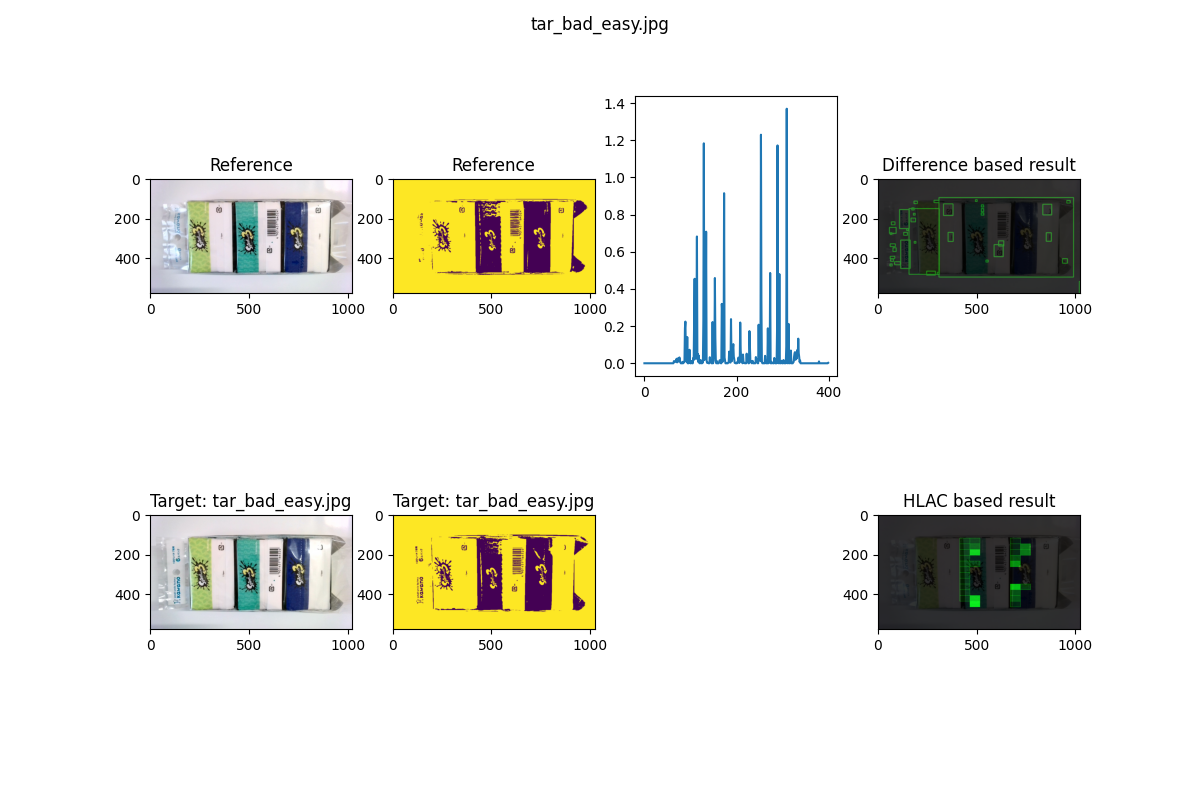
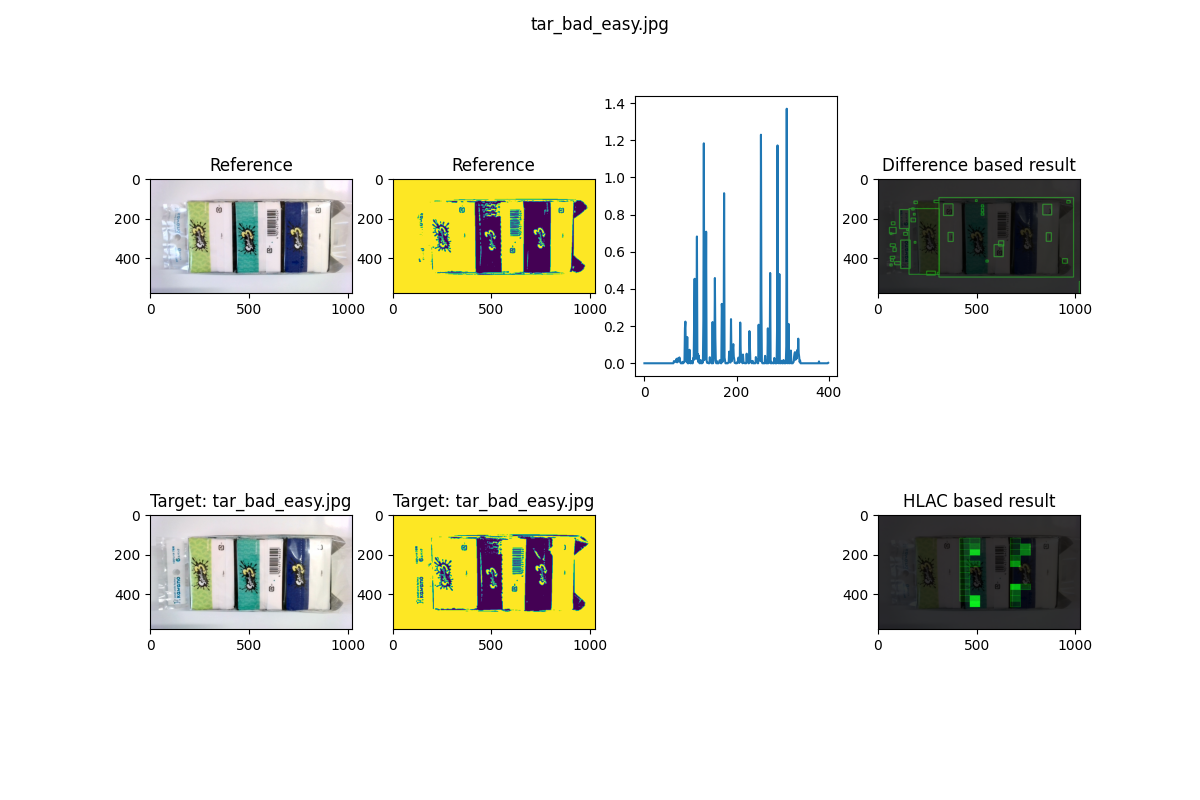
add hsv-try

Changed region(s): [[0.3392, 0.6562, 0.4933, 0.7812], [0.3392, 0.25, 0.4933, 0.3438]]

diff --git a/tissue-absdiff-hsv.py b/tissue-absdiff-hsv.py
@@ -1,0 +1,128 @@
+import cv2
+import numpy as np
+
+
+# --------------------------------------------------- #
+# 画像合成                                             #
+# --------------------------------------------------- #
+
+def FitImageSize_small(img1, img2):
+    # height
+    if img1.shape[0] > img2.shape[0]:
+        height = img2.shape[0]
+        width = img1.shape[1]
+        img1 = cv2.resize(img1, (width, height))
+    else:
+        height = img1.shape[0]
+        width = img2.shape[1]
+        img2 = cv2.resize(img2, (width, height))
+
+    # width
+    if img1.shape[1] > img2.shape[1]:
+        height = img1.shape[0]
+        width = img2.shape[1]
+        img1 = cv2.resize(img1, (width, height))
+    else:
+        height = img2.shape[0]
+        width = img1.shape[1]
+        img2 = cv2.resize(img2, (width, height))
+    return img1, img2
+
+
+path_img1 ="./my_dir/matigai/ref.jpg"    #250301
+path_img2 ="./my_dir/matigai/tar_good_easy.jpg"    #250301
+
+img1 = cv2.imread(path_img1)
+img2 = cv2.imread(path_img2)
+
+
+if img1 is None:
+    print(os.path.basename(path_img1)+'ファイルを読み込めません')
+    import sys
+    sys.exit()
+
+if img2 is None:
+    print(os.path.basename(path_img2)+'ファイルを読み込めません')
+    import sys
+    sys.exit()
+
+
+cv2.imshow("img1", img1)
+cv2.imshow("img2", img2)
+
+#250301
+# 余白を取り除いたときに2つの画像が最も一致するような適切な余白（padding）の幅を見つける
+# img_src = img
+# padding_result = []
+# for padding in range(0, 50):
+#     # 画像の余白を削除
+#     # (余白無しの可能性を考慮)
+#     if padding:
+#         img = img_src[:, padding:-padding]
+
+#     # 画像を左右で分割する
+#     height, width, channels = img.shape[:3]
+#     img1 = img[:, :width // 2]
+#     img2 = img[:, width // 2:]
+
+#     # 画像サイズを合わせる(小さい方に)
+#     img1, img2 = FitImageSize_small(img1, img2)
+
+#     # 2つの画像の差分を算出
+#     img_diff = cv2.absdiff(img2, img1)
+#     img_diff_sum = np.sum(img_diff)
+
+#     padding_result.append((img_diff_sum, padding))
+
+# # 差分が最も少ないものを選ぶ
+# _, padding = min(padding_result, key=lambda x: x[0])
+
+# # 画像の余白を削除
+# if padding:
+#     img = img_src[:, padding:-padding]
+
+# # 画像を左右で分割する
+# height, width, channels = img.shape[:3]
+# img1 = img[:, :width // 2]
+# img2 = img[:, width // 2:]
+# cv2.imshow("img2", img2)
+
+# もともとの対象が印刷物なので、HSVに変換してみる。
+img1_hsv = cv2.cvtColor(img1, cv2.COLOR_RGB2HSV)
+img2_hsv = cv2.cvtColor(img2, cv2.COLOR_RGB2HSV)
+
+# 2つの画像の差分を算出
+img_diff = cv2.absdiff(img2_hsv, img1_hsv)
+diff_h = img_diff[:, :, 0]
+diff_s = img_diff[:, :, 1] * 3
+diff_v = img_diff[:, :, 2]
+
+# 一定未満の彩度(V)の部分は色合い(H)の差分を考慮しないようにする
+H_THRESHOLD = 70    #250301 default:70
+_, diff_h_mask = cv2.threshold(diff_v, H_THRESHOLD, 255, cv2.THRESH_BINARY)
+diff_h = np.minimum(diff_h, diff_h_mask)
+
+# 輝度、彩度の差分を規格化する
+diff_s = cv2.normalize(diff_s, _, 255, 0, cv2.NORM_MINMAX)
+diff_v = cv2.normalize(diff_v, _, 255, 0, cv2.NORM_MINMAX)
+
+# HSVの差分の一番大きく変わったところを取得する
+diff_glay = np.maximum(diff_h, diff_s, diff_v)
+
+# 変わっている場所の候補を二値化とオープニングで取得
+DIFF_THRESHOLD = 60 #250301 default:60
+_, diff_bin = cv2.threshold(diff_glay, DIFF_THRESHOLD, 255, cv2.THRESH_BINARY)
+diff_bin = cv2.morphologyEx(diff_bin, cv2.MORPH_OPEN, cv2.getStructuringElement(cv2.MORPH_RECT, (3, 3)))
+
+# 画像サイズを合わせる(小さい方に)
+img2, diff_bin = FitImageSize_small(img2, diff_bin)
+cv2.imshow("img_diff", diff_bin)
+
+# 画像合成
+diff_bin_rgb = cv2.cvtColor(diff_bin, cv2.COLOR_GRAY2RGB)
+add = np.maximum(np.minimum(img2, diff_bin_rgb), (img2 // 3))
+cv2.imshow("add", add)
+
+cv2.waitKey(0)
+cv2.destroyAllWindows()
+

diff --git a/history/pad-absdiff-hsv.py b/history/pad-absdiff-hsv.py
@@ -1,0 +1,117 @@
+import cv2
+import numpy as np
+
+
+# --------------------------------------------------- #
+# 画像合成                                             #
+# --------------------------------------------------- #
+
+def FitImageSize_small(img1, img2):
+    # height
+    if img1.shape[0] > img2.shape[0]:
+        height = img2.shape[0]
+        width = img1.shape[1]
+        img1 = cv2.resize(img1, (width, height))
+    else:
+        height = img1.shape[0]
+        width = img2.shape[1]
+        img2 = cv2.resize(img2, (width, height))
+
+    # width
+    if img1.shape[1] > img2.shape[1]:
+        height = img1.shape[0]
+        width = img2.shape[1]
+        img1 = cv2.resize(img1, (width, height))
+    else:
+        height = img2.shape[0]
+        width = img1.shape[1]
+        img2 = cv2.resize(img2, (width, height))
+    return img1, img2
+
+
+path_img ="./my_dir/matigai/ref.jpg"    #250301
+img = cv2.imread(path_img)
+
+if img is None:
+    print('ファイルを読み込めません')
+    import sys
+
+    sys.exit()
+
+cv2.imshow("img", img)
+
+# 余白を取り除いたときに2つの画像が最も一致するような適切な余白（padding）の幅を見つける
+img_src = img
+padding_result = []
+for padding in range(0, 50):
+    # 画像の余白を削除
+    # (余白無しの可能性を考慮)
+    if padding:
+        img = img_src[:, padding:-padding]
+
+    # 画像を左右で分割する
+    height, width, channels = img.shape[:3]
+    img1 = img[:, :width // 2]
+    img2 = img[:, width // 2:]
+
+    # 画像サイズを合わせる(小さい方に)
+    img1, img2 = FitImageSize_small(img1, img2)
+
+    # 2つの画像の差分を算出
+    img_diff = cv2.absdiff(img2, img1)
+    img_diff_sum = np.sum(img_diff)
+
+    padding_result.append((img_diff_sum, padding))
+
+# 差分が最も少ないものを選ぶ
+_, padding = min(padding_result, key=lambda x: x[0])
+
+# 画像の余白を削除
+if padding:
+    img = img_src[:, padding:-padding]
+
+# 画像を左右で分割する
+height, width, channels = img.shape[:3]
+img1 = img[:, :width // 2]
+img2 = img[:, width // 2:]
+cv2.imshow("img2", img2)
+
+# もともとの対象が印刷物なので、HSVに変換してみる。
+img1_hsv = cv2.cvtColor(img1, cv2.COLOR_RGB2HSV)
+img2_hsv = cv2.cvtColor(img2, cv2.COLOR_RGB2HSV)
+
+# 2つの画像の差分を算出
+img_diff = cv2.absdiff(img2_hsv, img1_hsv)
+diff_h = img_diff[:, :, 0]
+diff_s = img_diff[:, :, 1] * 3
+diff_v = img_diff[:, :, 2]
+
+# 一定未満の彩度(V)の部分は色合い(H)の差分を考慮しないようにする
+H_THRESHOLD = 70
+_, diff_h_mask = cv2.threshold(diff_v, H_THRESHOLD, 255, cv2.THRESH_BINARY)
+diff_h = np.minimum(diff_h, diff_h_mask)
+
+# 輝度、彩度の差分を規格化する
+diff_s = cv2.normalize(diff_s, _, 255, 0, cv2.NORM_MINMAX)
+diff_v = cv2.normalize(diff_v, _, 255, 0, cv2.NORM_MINMAX)
+
+# HSVの差分の一番大きく変わったところを取得する
+diff_glay = np.maximum(diff_h, diff_s, diff_v)
+
+# 変わっている場所の候補を二値化とオープニングで取得
+DIFF_THRESHOLD = 60
+_, diff_bin = cv2.threshold(diff_glay, DIFF_THRESHOLD, 255, cv2.THRESH_BINARY)
+diff_bin = cv2.morphologyEx(diff_bin, cv2.MORPH_OPEN, cv2.getStructuringElement(cv2.MORPH_RECT, (3, 3)))
+
+# 画像サイズを合わせる(小さい方に)
+img2, diff_bin = FitImageSize_small(img2, diff_bin)
+cv2.imshow("img_diff", diff_bin)
+
+# 画像合成
+diff_bin_rgb = cv2.cvtColor(diff_bin, cv2.COLOR_GRAY2RGB)
+add = np.maximum(np.minimum(img2, diff_bin_rgb), (img2 // 3))
+cv2.imshow("add", add)
+
+cv2.waitKey(0)
+cv2.destroyAllWindows()
+

diff --git a/history/measure_distance_tissue.py b/history/measure_distance_tissue.py
@@ -1,0 +1,36 @@
+import imgsim
+import cv2
+import os
+
+vtr = imgsim.Vectorizer()
+
+base = "./my_dir/matigai/ref.jpg"
+tar_good_e = "./my_dir/matigai/tar_good_easy.jpg"
+tar_good_h = "./my_dir/matigai/tar_good_hard.jpg"
+tar_bad_e = "./my_dir/matigai/tar_bad_easy.jpg"
+tar_bad_h = "./my_dir/matigai/tar_bad_hard.jpg"
+
+
+base_img = cv2.imread(base)
+tar_goodE_img = cv2.imread(tar_good_e)
+tar_goodH_img = cv2.imread(tar_good_h)
+tar_badE_img = cv2.imread(tar_bad_e)
+tar_badH_img = cv2.imread(tar_bad_h)
+
+
+base_vec = vtr.vectorize(base_img)
+good_e_vec = vtr.vectorize(tar_goodE_img)
+good_h_vec = vtr.vectorize(tar_goodH_img)
+bad_e_vec = vtr.vectorize(tar_badE_img)
+bad_h_vec = vtr.vectorize(tar_badH_img)
+
+dist0 = imgsim.distance(base_vec, base_vec)
+print(os.path.basename(base)+" Distance =", round(dist0, 2))
+dist1 = imgsim.distance(base_vec, good_e_vec)
+print(os.path.basename(tar_good_e)+" Distance =", round(dist1, 2))
+dist2 = imgsim.distance(base_vec, good_h_vec)
+print(os.path.basename(tar_good_h)+" Distance =", round(dist2, 2))
+dist3 = imgsim.distance(base_vec, bad_e_vec)
+print(os.path.basename(tar_bad_e)+" Distance =", round(dist3, 2))
+dist4 = imgsim.distance(base_vec, bad_h_vec)
+print(os.path.basename(tar_bad_h)+" Distance =", round(dist4, 2))

diff --git a/history/measure_distance.py b/history/measure_distance.py
@@ -1,0 +1,25 @@
+import imgsim
+import cv2
+
+
+vtr = imgsim.Vectorizer()
+
+penguin_img = cv2.imread("./input/base.jpg")
+penguin_lr_img = cv2.imread("./input/flip_lr.jpg")
+another_penguin_img = cv2.imread("./input/small.jpg")
+hummingbird_img = cv2.imread("./input/bird.png")
+
+
+penguin_vec = vtr.vectorize(penguin_img)
+penguin_lr_vec = vtr.vectorize(penguin_lr_img)
+another_penguin_vec = vtr.vectorize(another_penguin_img)
+hummingbird_vec = vtr.vectorize(hummingbird_img)
+
+dist0 = imgsim.distance(penguin_vec, penguin_vec)
+print("Same Distance =", round(dist0, 2))
+dist1 = imgsim.distance(penguin_vec, penguin_lr_vec)
+print("Reversal Distance =", round(dist1, 2))
+dist2 = imgsim.distance(penguin_vec, another_penguin_vec)
+print("Another Distance =", round(dist2, 2))
+dist3 = imgsim.distance(penguin_vec, hummingbird_vec)
+print("Other Distance =", round(dist3, 2))

diff --git a/hlac_tissue.py b/hlac_tissue.py
@@ -11,7 +11,7 @@ PL_CLM=4
 """OpenCVでの画像読み込みはBGRチャネルの順番であり、MatplotlibはRGBの順番で表示されるため、色は少し変になります。これを正しく表示するためにはOpenCVで色空間を変更してもいいですが、下記のようにチャネルを逆読み込みするのが楽です。"""
 # r,c = image.shape[:2]
 ref_file='./my_dir/matigai/ref.jpg'
-tar_file='./my_dir/matigai/tar_good_hard.jpg'
+tar_file='./my_dir/matigai/tar_bad_easy.jpg'
 
 reference = cv2.imread(ref_file)
 target = cv2.imread(tar_file)
